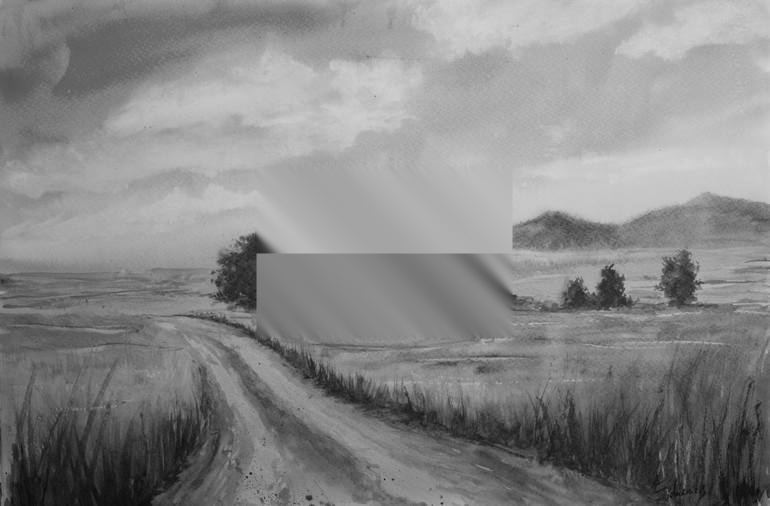
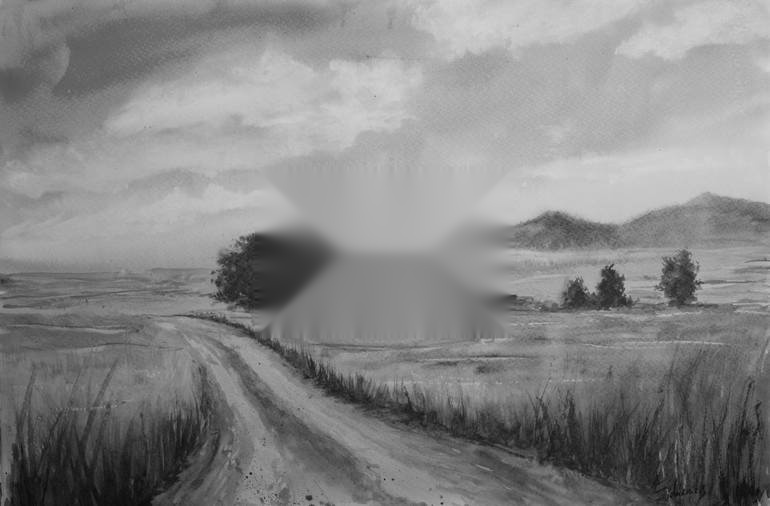
updated README.md

Changed region(s): [[0.3117, 0.4447, 0.4675, 0.6225], [0.5922, 0.4447, 0.6857, 0.6225], [0.4987, 0.504, 0.5299, 0.5336]]

diff --git a/README.md b/README.md
@@ -13,4 +13,11 @@ The library supports two filling algorithms:
 
 ## How can I run it?
 
-The input image is being generated from sample.jpg in the main folder and a hole is being generated. To check out different images, simply change sample.jpg with your own.
+The input image is being generated from sample.jpg in the main folder, and a hole is being generated. To check out different images, simply change sample.jpg with your own.
+
+### Example:
+Before
+![txt](https://github.com/Shahar-St/Image_Hole_Filler/blob/master/input.jpg?raw=true)
+
+After
+![txt](https://github.com/Shahar-St/Image_Hole_Filler/blob/master/output.jpg?raw=true)
